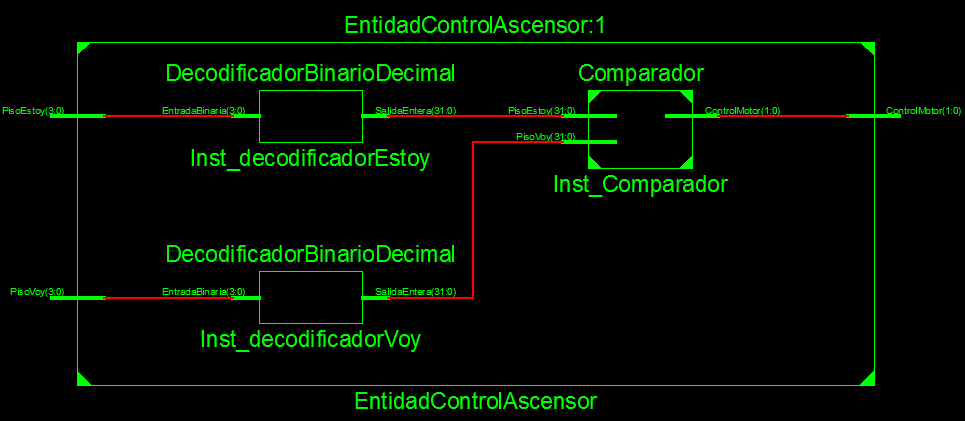
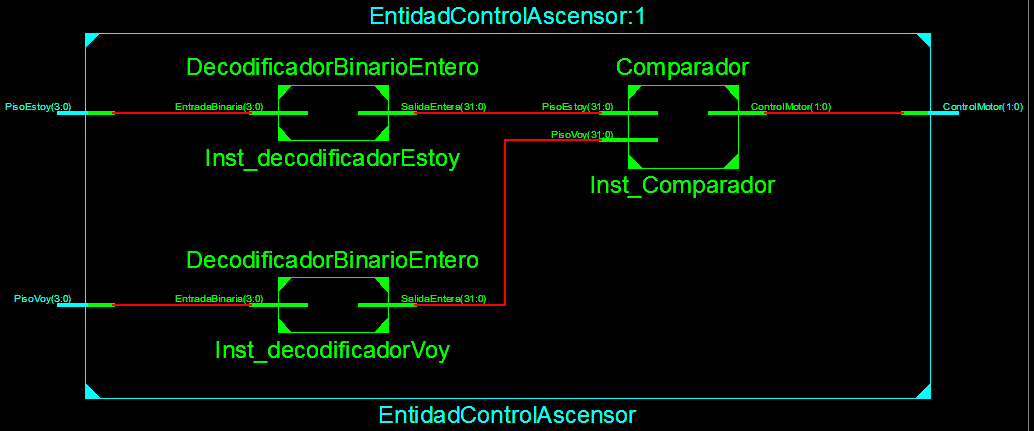
Actualizacion
EntidadControlAscensor OK, subidas imagenes simulación e implementación.

diff --git a/Codigo.tex b/Codigo.tex
@@ -67,27 +67,36 @@
 		    \label{fig:SimulacionBloqueadorPisoVoy}
 	\end{figure}
 
-\subsection{Código Bloque \textit{Decodificador Binario a Decimal}:} \label{code:DecodificadorBinarioDecimal}
-    \inputminted[frame=lines,fontsize=\footnotesize,linenos]{vhdl}{CodeFiles/DecodificadorBinarioDecimal.vhd}
+\subsection{Código Bloque \textit{Decodificador Binario a Entero}:} \label{code:DecodificadorBinarioEntero}
+    \inputminted[frame=lines,fontsize=\footnotesize,linenos]{vhdl}{CodeFiles/DecodificadorBinarioEntero.vhd}
     
-    Como se puede ver en la Figura (\ref{fig:BloqueDecodificadorBinarioDecimalOK}) el esquema obtenido una vez programado y sintetizado se corresponde con el que se pretendía.
+    Como se puede ver en la Figura (\ref{fig:BloqueDecodificadorBinarioEnteroOK}) el esquema obtenido una vez programado y sintetizado se corresponde con el que se pretendía.
     \begin{figure}[H]
 		    \centering
-		    \includegraphics[width = 0.6\textwidth ]{BloqueDecodificadorBinarioDecimalOK}
-		    \caption{Esquema exterior del bloque Decodificador Binario-Decimal}
-		    \label{fig:BloqueDecodificadorBinarioDecimalOK}
+		    \includegraphics[width = 0.6\textwidth ]{BloqueDecodificadorBinarioEnteroOK}
+		    \caption{Esquema exterior del bloque Decodificador Binario-Entero}
+		    \label{fig:BloqueDecodificadorBinarioEnteroOK}
 	\end{figure}
-    Además podemos ver en la Figura (\ref{fig:BloqueDecodificadorBinarioDecimalImplementacion}) como se compone internamente el bloque, como se codifica en hardware esta utilidad:
+    Además podemos ver en la Figura (\ref{fig:BloqueDecodificadorBinarioEnteroImplementacion}) como se compone internamente el bloque, como se codifica en hardware esta utilidad:
     \begin{figure}[H]
 		    \centering
-		    \includegraphics[width = 0.9\textwidth ]{BloqueDecodificadorBinarioDecimalImplementacion}
-		    \caption{Esquema interno del bloque Decodificador Binario-Decimal}
-		    \label{fig:BloqueDecodificadorBinarioDecimalImplementacion}
+		    \includegraphics[width = 0.9\textwidth ]{BloqueDecodificadorBinarioEnteroImplementacion}
+		    \caption{Esquema interno del bloque Decodificador Binario-Entero}
+		    \label{fig:BloqueDecodificadorBinarioEnteroImplementacion}
 	\end{figure}
     
-\subsection{Código Bloque \textit{Decodificador Binario a Decimal (testbench)}:} \label{code:DecodificadorBinarioDecimal_tb}
-    \inputminted[frame=lines,fontsize=\footnotesize,linenos]{vhdl}{CodeFiles/DecodificadorBinarioDecimal_tb.vhd}
-    
+\subsection{Código Bloque \textit{Decodificador Binario a Entero (testbench)}:} \label{code:DecodificadorBinarioEntero_tb}
+    \inputminted[frame=lines,fontsize=\footnotesize,linenos]{vhdl}{CodeFiles/DecodificadorBinarioEntero_tb.vhd}
+
+    Utilizando este testbench se obtiene el comportamiento que se puede ver en la Figura (\ref{fig:SimulacionDecodificadorBinarioEntero}):
+
+    \begin{figure}[H]
+		    \centering
+		    \includegraphics[width = 0.8\textwidth ]{SimulacionDecodificadorBinarioEntero}
+		    \caption{Simulación del testbench del bloque DecodificadorBinarioEntero}
+		    \label{fig:SimulacionDecodificadorBinarioEntero}
+	\end{figure}
+
 \subsection{Código Bloque \textit{Comparador}:} \label{code:Comparador}
     \inputminted[frame=lines,fontsize=\footnotesize,linenos]{vhdl}{CodeFiles/Comparador.vhd}	
 
@@ -109,6 +118,14 @@
 \subsection{Código Bloque \textit{Comparador (testbench)}:} \label{code:Comparador_tb}
     \inputminted[frame=lines,fontsize=\footnotesize,linenos]{vhdl}{CodeFiles/Comparador_tb.vhd}
 
+    Utilizando este testbench se obtiene el comportamiento que se puede ver en la Figura (\ref{fig:SimulacionComparador}):
+
+    \begin{figure}[H]
+		    \centering
+		    \includegraphics[width = 0.8\textwidth ]{SimulacionComparador}
+		    \caption{Simulación del testbench del bloque Comparador}
+		    \label{fig:SimulacionComparador}
+	\end{figure}
 
 \subsection{Código Bloque \textit{Controlador Motor}:} \label{code:ControladorMotor}
 
@@ -140,6 +157,15 @@
 
 \subsection{Código Entidad \textit{Control Ascensor (testbench)}:} \label{code:ControlAscensor_tb}
 	\inputminted[frame=lines,fontsize=\footnotesize,linenos]{vhdl}{CodeFiles/EntidadControlAscensor_tb.vhd}
+
+    Utilizando este testbench se obtiene el comportamiento que se puede ver en la Figura (\ref{fig:SimulacionEntidadControlAscensor}):
+
+    \begin{figure}[H]
+		    \centering
+		    \includegraphics[width = 0.8\textwidth ]{SimulacionEntidadControlAscensor}
+		    \caption{Simulación del testbench de la entidad ControlAscensor}
+		    \label{fig:SimulacionEntidadControlAscensor}
+	\end{figure}
 
 \subsection{Código Entidad \textit{Visualizacion}:} \label{code:Visualizacion}
 
